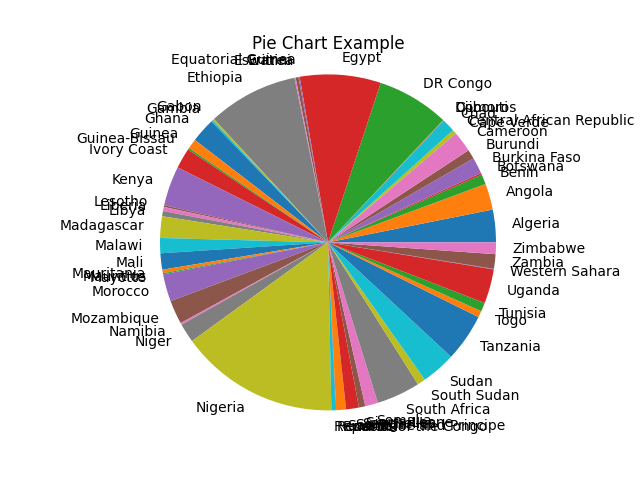
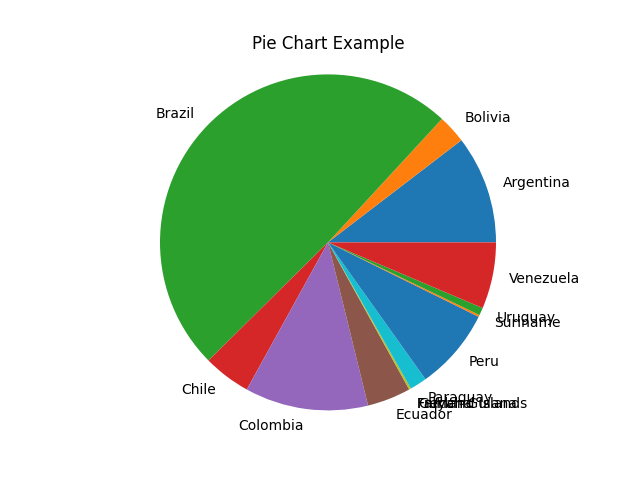
Cambios requests y pandas

Changed region(s): [[0.0938, 0.0938, 1.0, 0.9062]]

diff --git a/app/main.py b/app/main.py
@@ -6,14 +6,22 @@ import pandas as pd
 
 def run():
 
-    data = read_csv.read_csv('C:/Users/personal/Desktop/Tercer_Curso/app/data.csv')
-    #cometar el codigo generate_pie_chart para generar el otro grafico.
+    #version anterior
+    '''
     data = list(filter(lambda item: item['Continent'] == 'Africa', data))
 
     countries = list(map(lambda x: x['Country'], data))
-    percentages = list(map(lambda x: x['World Population Percentage'], data))
+    percentages = list(map(lambda x: x['World Population Percentage'], data))'''
+
+    #version con pandas
+    df = pd.read_csv('C:/Users/personal/Desktop/Tercer_Curso/app/data.csv')
+    df = df[df['Continent'] == 'South America']
+
+    countries = df['Country'].values
+    percentages = df['World Population Percentage'].values
     charts.generate_pie_chart(countries, percentages)
     
+    data = read_csv.read_csv('C:/Users/personal/Desktop/Tercer_Curso/app/data.csv')
     country = input('Type Country => ')
 
     result = utils.population_by_country(data, country)

diff --git a/web-server/store.py b/web-server/store.py
@@ -1,0 +1,10 @@
+import requests
+
+def get_categories():
+    r = requests.get("https://api.escuelajs.co/api/v1/categories")
+    print(r.status_code)
+    print(r.text)
+    print(type(r.text))
+    categories = r.json()
+    for category in categories:
+        print(category['name'])

diff --git a/web-server/main.py b/web-server/main.py
@@ -1,0 +1,7 @@
+import store
+
+def run():
+    store.get_categories()
+
+if __name__ == "__main__":
+    run()
